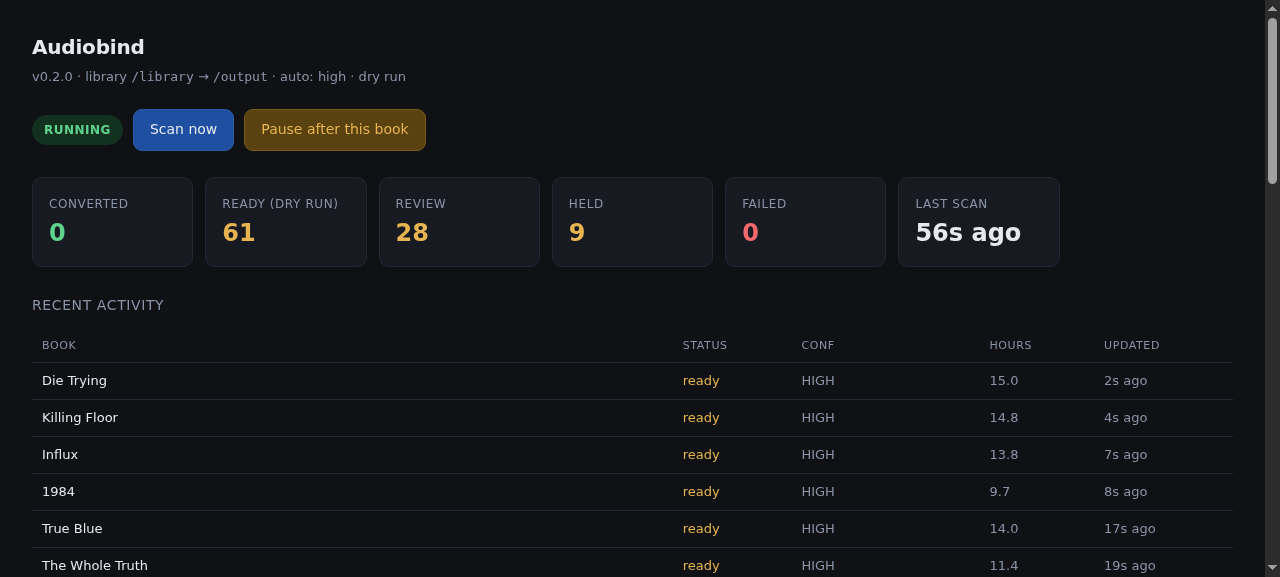
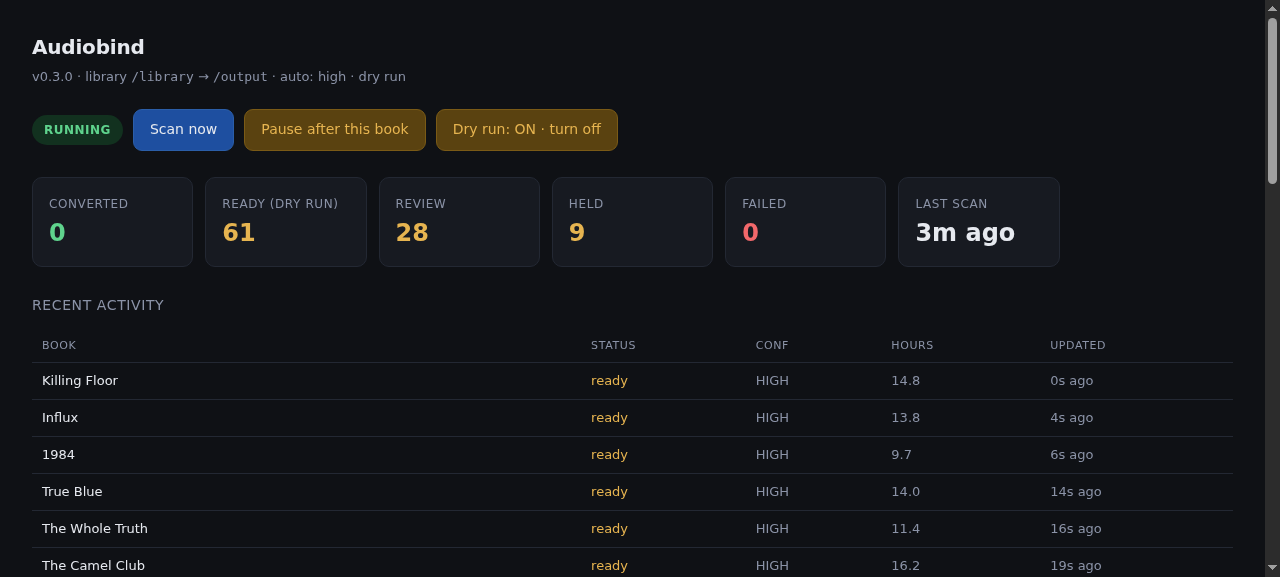
docs: screenshot and README for the page controls

diff --git a/README.md b/README.md
@@ -67,6 +67,26 @@ services:
 
 Then open `http://<host>:8080` for the status page.
 
+### Controls in the web UI
+
+The status page is also the control panel:
+
+| Button | What it does |
+|---|---|
+| **Scan now** | skips the interval and starts a pass immediately |
+| **Pause after this book** | finishes the book in flight, then stops before starting another |
+| **Resume** | continues, and scans immediately |
+| **Dry run: ON / OFF** | switches between deciding-only and writing. Persisted, so a restart keeps your choice; `DRY_RUN` is only the default for a fresh install |
+
+Both toggles survive container restarts. Scripted equivalent:
+
+```bash
+curl -X POST -H 'Content-Type: application/json' -d '{"action":"pause"}'    localhost:8080/api/control
+curl -X POST -H 'Content-Type: application/json' -d '{"action":"resume"}'   localhost:8080/api/control
+curl -X POST -H 'Content-Type: application/json' -d '{"action":"scan"}'     localhost:8080/api/control
+curl -X POST -H 'Content-Type: application/json' -d '{"action":"dry_run","value":false}' localhost:8080/api/control
+```
+
 ### CLI
 
 ```bash
